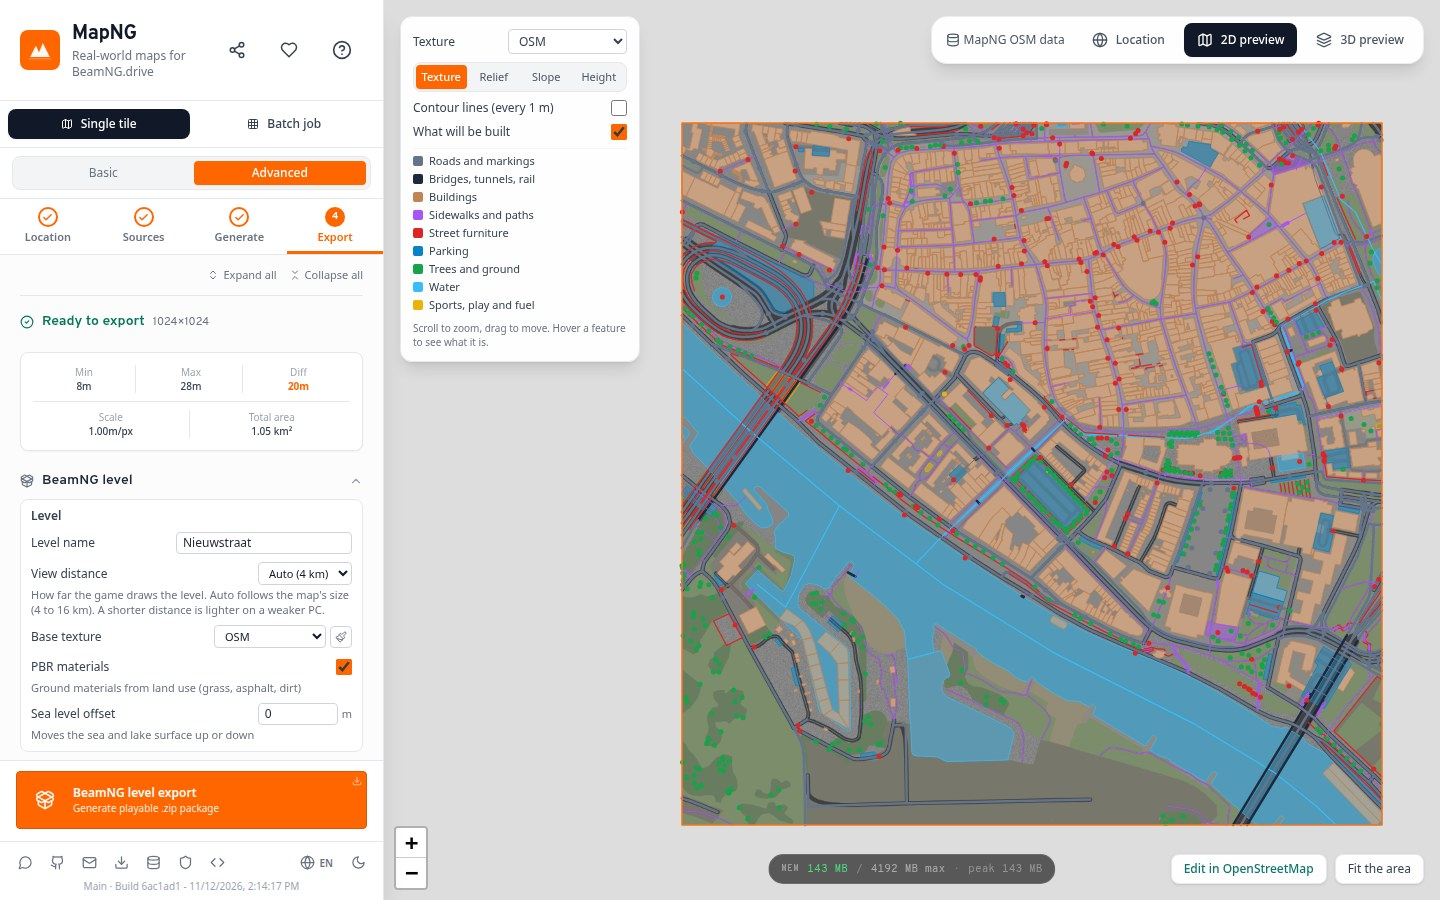
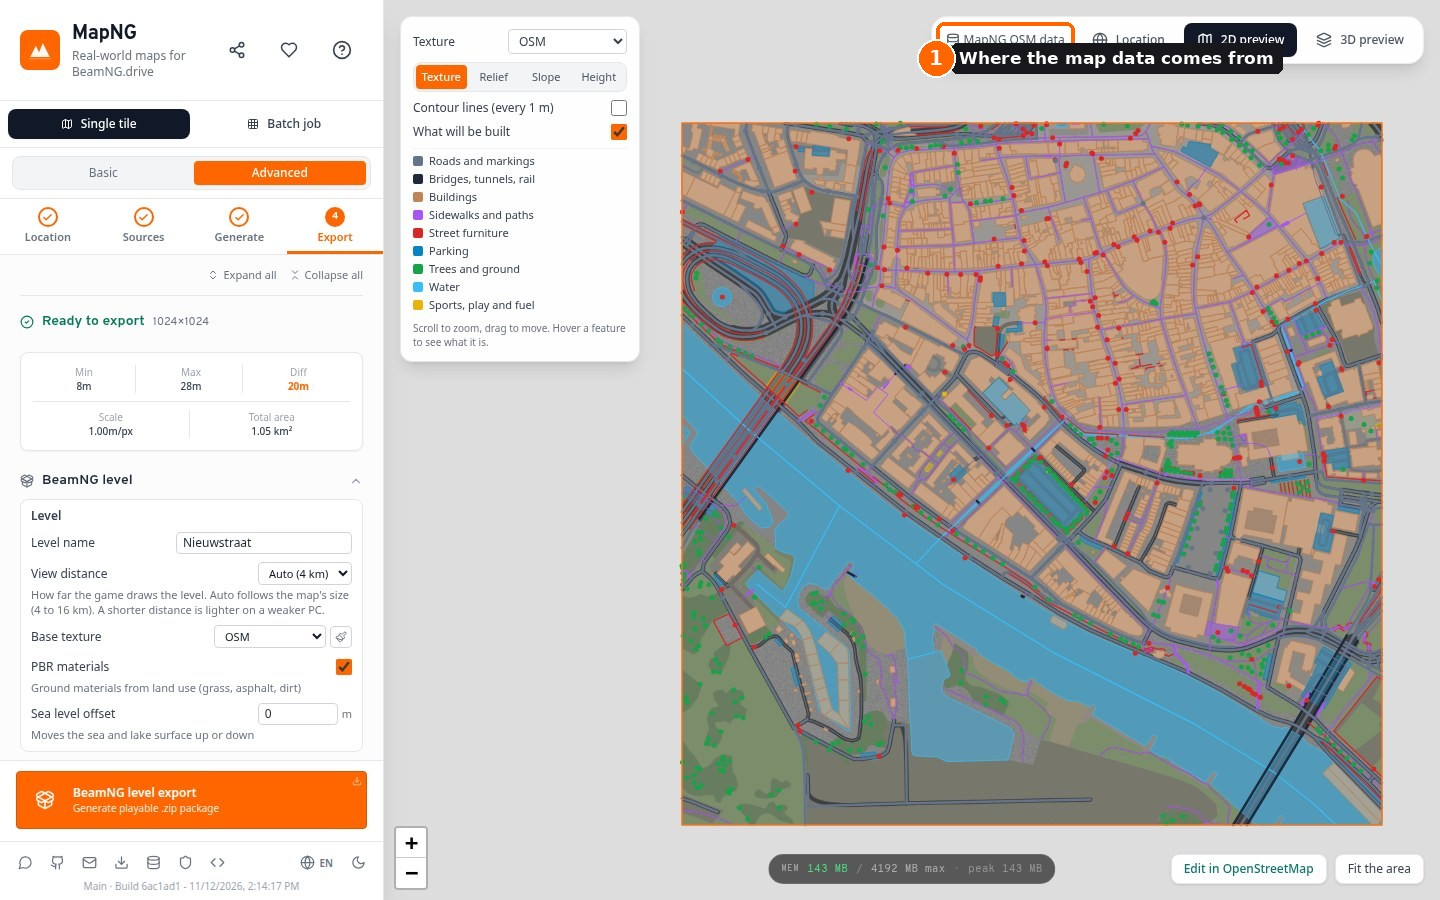
0.3.0 page: the app screenshots marked up, the sidewalk settings retaken from the current build
Claude-Session: https://claude.ai/code/session_01A32U8yaCByP1obMUzo3QHu

Changed region(s): [[0.625, 0.0, 0.9062, 0.0933]]

diff --git a/public/updates/0.3.0/index.html b/public/updates/0.3.0/index.html
@@ -174,7 +174,7 @@
     <figure><img src="images/planet-compare.jpg" alt="Two bar charts for twelve places around the world: reading an area takes 1 to 2 seconds from MapNG tiles against 2 to 7 from the live servers, and both return almost exactly the same number of features" loading="lazy"><figcaption>Behind the scenes: twelve places, read both ways. Left, the time; right, the number of map features. A block edge (Greenwich), the date line (Fiji) and the equator are among them.</figcaption></figure>
     <h3>It is a snapshot, and you choose</h3>
     <p>The copy is OpenStreetMap as it was on <b>2 November 2026</b>, and it will be rebuilt regularly. If you have just edited OpenStreetMap and want today's map, there is a new switch under <b>Map data</b>: <b>MapNG's own copy of OpenStreetMap first</b>. Switch it off and the live servers are asked first, with MapNG's copy as the fallback when they do not answer.</p>
-    <figure><img src="images/planet-app.jpg" alt="MapNG with a 2D preview of Arnhem and, in the bar above the map, a small note reading MapNG OSM data next to the Location, 2D preview and 3D preview tabs" loading="lazy"><figcaption>The bar above the map now says where the map data comes from. Before a Generate it shows what will be asked first; after one, what was really used. Hover it for the snapshot's day.</figcaption></figure>
+    <figure><img src="images/planet-app.jpg" alt="MapNG with a 2D preview of Arnhem and, in the bar above the map, a small note reading MapNG OSM data next to the Location, 2D preview and 3D preview tabs" loading="lazy"><figcaption><strong>1</strong> The bar above the map now says where the map data comes from. Before a Generate it shows what will be asked first; after one, what was really used. Hover it for the snapshot's day.</figcaption></figure>
     <p>The old "Backup map data" alarm and the banner about OpenStreetMap being down are gone: with the planet on MapNG's own storage, an outage of the public servers no longer changes what you get. Every level's export report names the source and the snapshot day.</p>
     <p class="muted">Map data © <a href="https://www.openstreetmap.org/copyright">OpenStreetMap contributors</a>, under the Open Database License. MapNG's copy holds what OpenStreetMap publishes, nothing added.</p>
   </section>
@@ -210,7 +210,7 @@
     <p>Measured on a 2 km town centre: the raised sidewalks are 731,000 triangles in 11 meshes. As decals the export took 35 seconds against 49 and the level was 64 MB against 89. One honest note: the frame rate in the game came out the same either way on our test machine, so choose decals for the look, the driving and the smaller level, not for speed.</p>
     <h3>Curb height</h3>
     <p>For the raised sidewalks: <b>Standard</b> (15 cm, a real curb), <b>Low</b> (8 cm) or <b>Flush</b> (3 cm). Lower curbs are kinder to low cars and easy to drive onto. Street furniture standing on a sidewalk follows the height you pick.</p>
-    <figure><img src="images/sidewalk-settings.jpg" alt="MapNG's Fine-tuning tab showing the Assume street parking switch, the Sidewalks as decals switch turned on, and the Curb height choice of Standard, Low and Flush" loading="lazy"><figcaption>Fine-tuning, with the new switch and the curb height choice. Both are saved with the level and travel in settings codes.</figcaption></figure>
+    <figure><img src="images/sidewalk-settings.jpg" alt="MapNG's Fine-tuning tab showing the Assume street parking switch, the Sidewalks as decals switch turned on, and the Curb height choice of Standard, Low and Flush" loading="lazy"><figcaption>Fine-tuning, with <strong>1</strong> the new sidewalk switch and <strong>2</strong> the curb height choice (greyed while decals are on, since decals have no curb). Both are saved with the level and travel in settings codes.</figcaption></figure>
   </section>
 
   <section id="map">
@@ -320,10 +320,10 @@
     <p>No email address is asked for anywhere in MapNG, and none of this changes that.</p>
     <h3>If MapNG closes unexpectedly</h3>
     <p>A browser tab that runs out of memory takes your session with it. MapNG now leaves itself a note, <b>in your own browser's storage</b>, when a Generate or an export starts, and removes it when the job ends or you close the page normally. If the note is still there next time, MapNG offers your settings back (you see them before anything is applied) and, if you like, a report. The note is shown once and deleted. Nothing is sent.</p>
-    <figure><img src="images/unexpected-close.jpg" alt="MapNG after an unexpected close: a notice under the top bar says an export was still running when MapNG closed last time and that the settings were kept in this browser, with buttons Restore my settings, Send a report and Dismiss" loading="lazy"><figcaption>The notice after a crash. An ordinary close or reload never shows it.</figcaption></figure>
+    <figure><img src="images/unexpected-close.jpg" alt="MapNG after an unexpected close: a notice under the top bar says an export was still running when MapNG closed last time and that the settings were kept in this browser, with buttons Restore my settings, Send a report and Dismiss" loading="lazy"><figcaption><strong>1</strong> The notice after a crash. An ordinary close or reload never shows it.</figcaption></figure>
     <h3>Reports from the website</h3>
     <p>The <b>Send report</b> window from the desktop app now opens on the website too when a Generate or an export fails. Same rules: it shows what is in it first, and nothing is sent unless you choose Send. A failed export also stays on screen with its reason instead of vanishing behind an alert.</p>
-    <figure><img src="images/web-report.jpg" alt="The Send report window on the website, listing what is included: the build, the browser and system, the error message, the settings code, and what is never included" loading="lazy"><figcaption>What a website report holds, shown before you send it. <a href="/data.html#web-reports">The full list is on the data page</a>, with a link to the code.</figcaption></figure>
+    <figure><img src="images/web-report.jpg" alt="The Send report window on the website, listing what is included: the build, the browser and system, the error message, the settings code, and what is never included" loading="lazy"><figcaption><strong>1</strong> What a website report holds, shown before you send it. <a href="/data.html#web-reports">The full list is on the data page</a>, with a link to the code.</figcaption></figure>
     <ul>
       <li><b>The portable Windows app, started from inside its zip,</b> now says "Extract the whole zip first" instead of opening and then failing at the first Generate. Found from a problem report.</li>
       <li><b>The website says when it was updated under you.</b> A page left open while a new version went live kept asking for files that were gone, and Generate could end with no terrain and no message. The page now notices and offers a Reload.</li>
